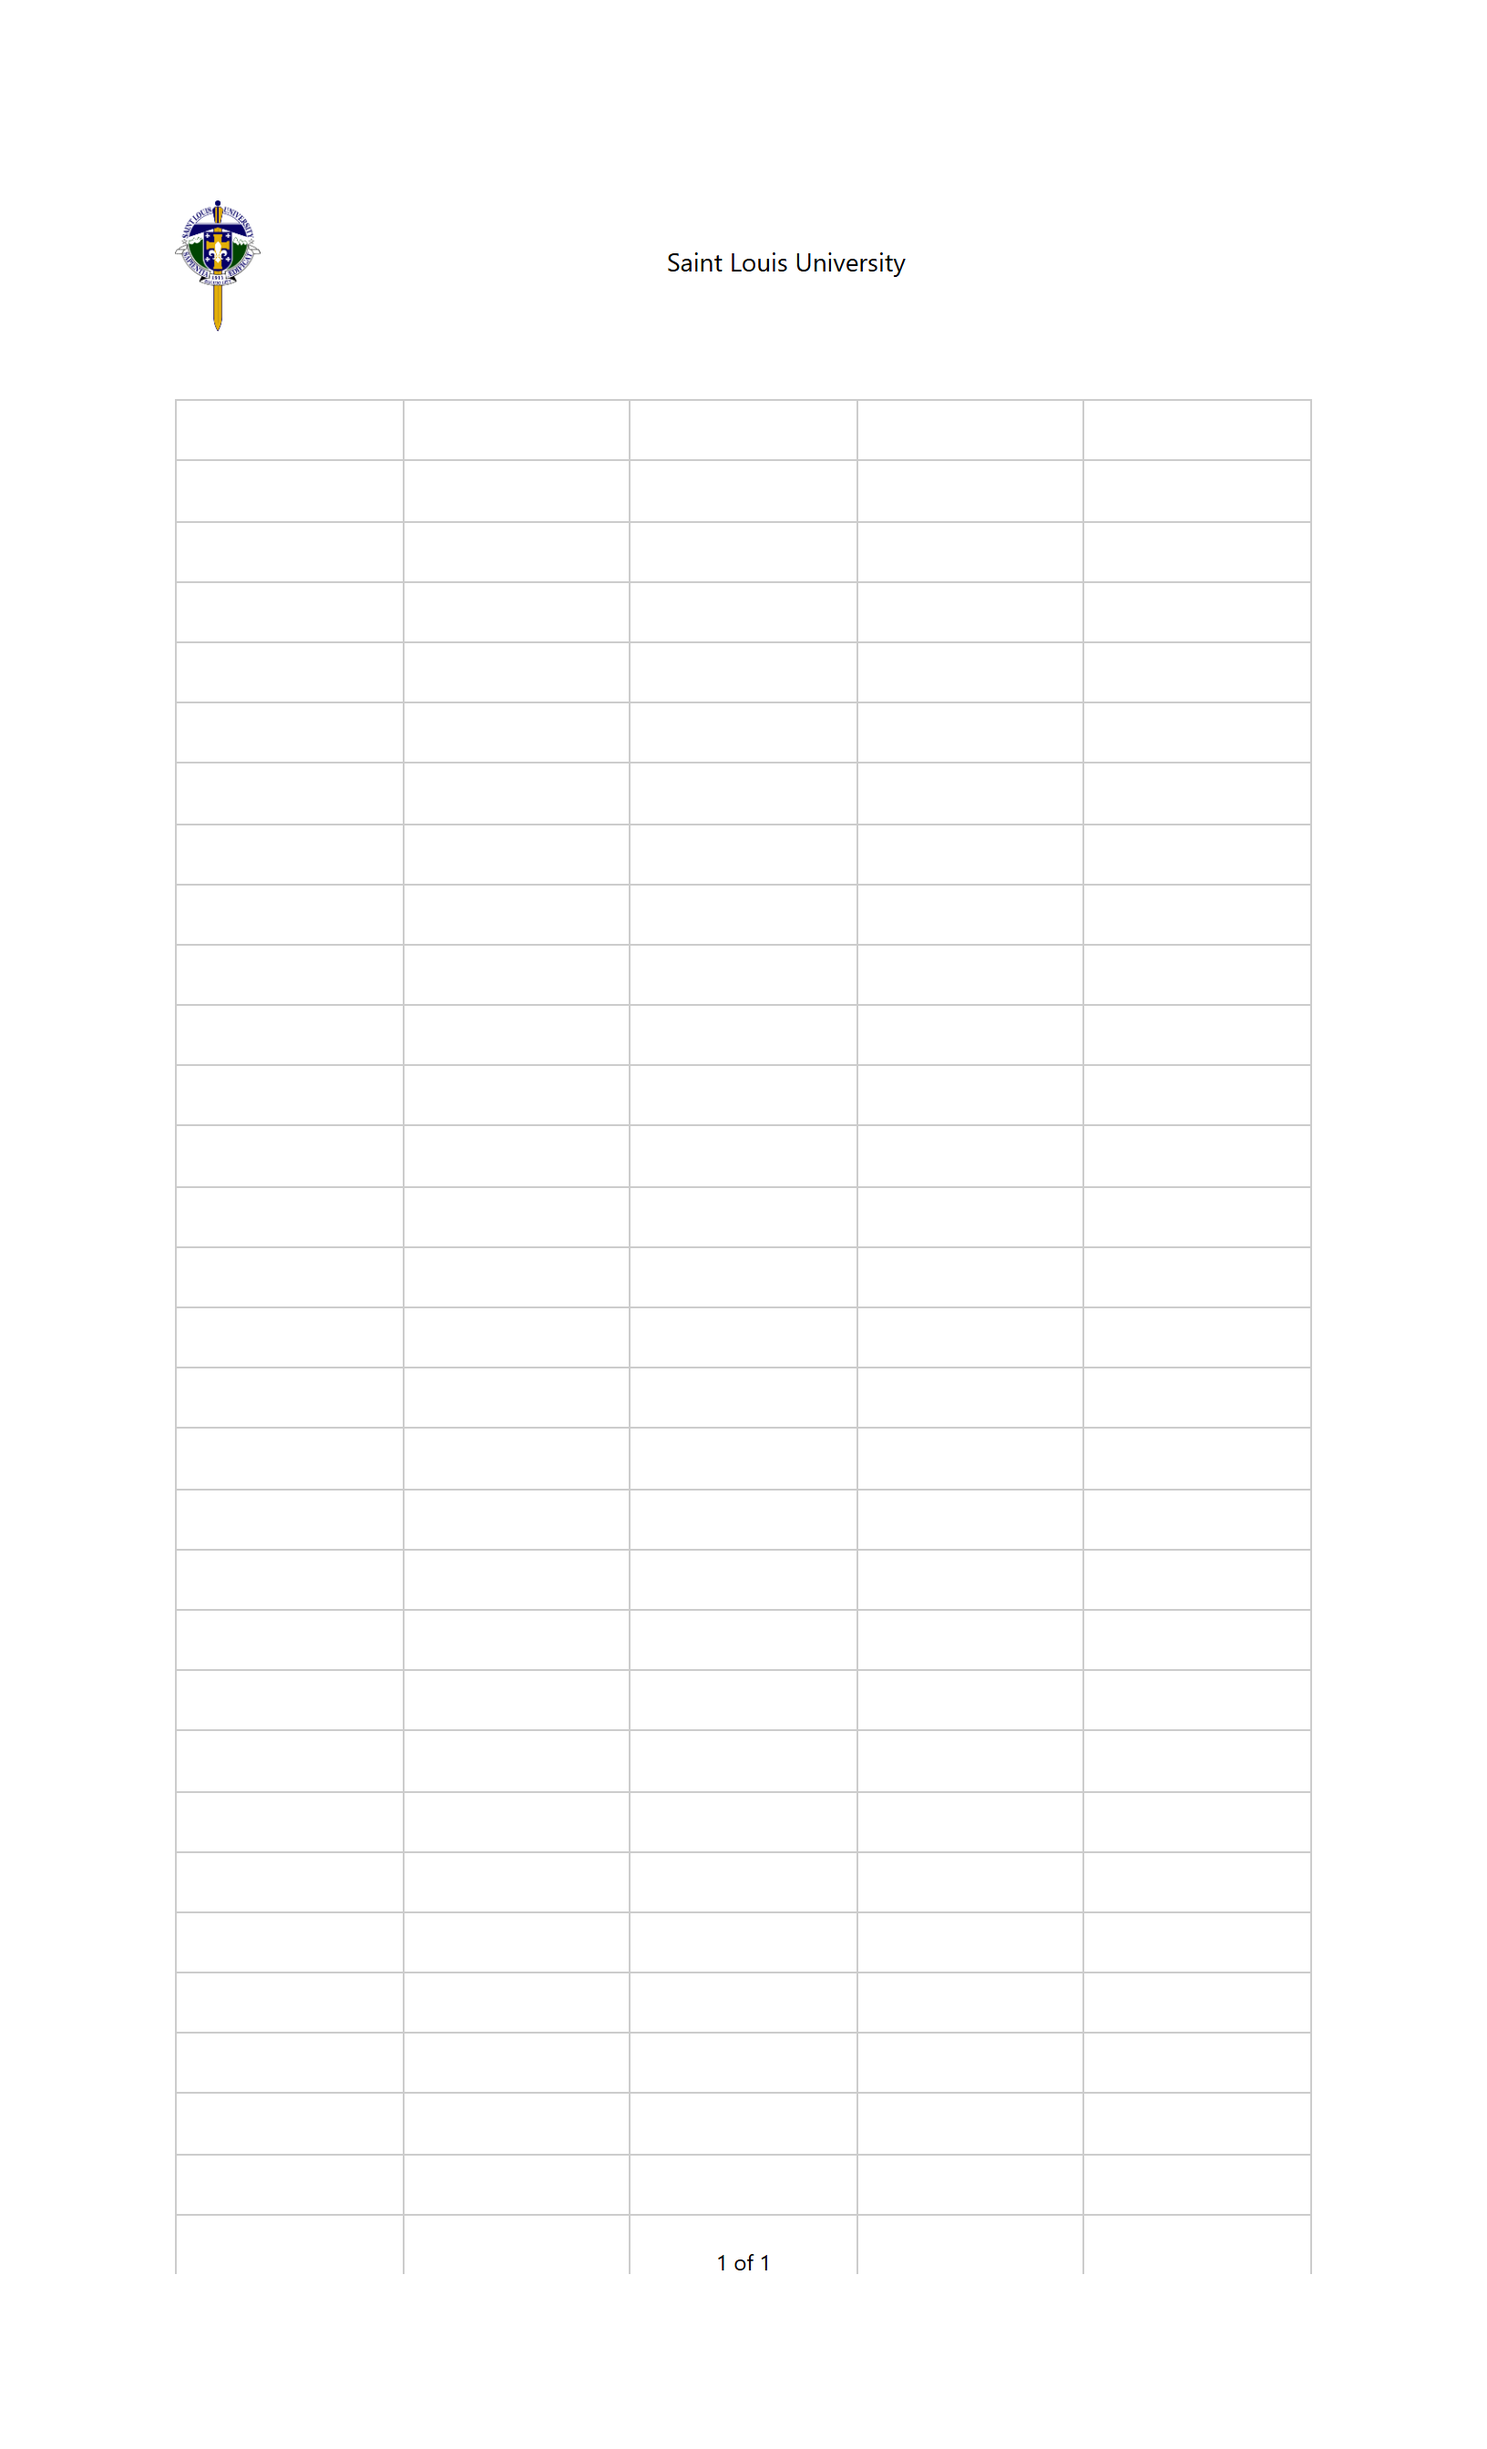
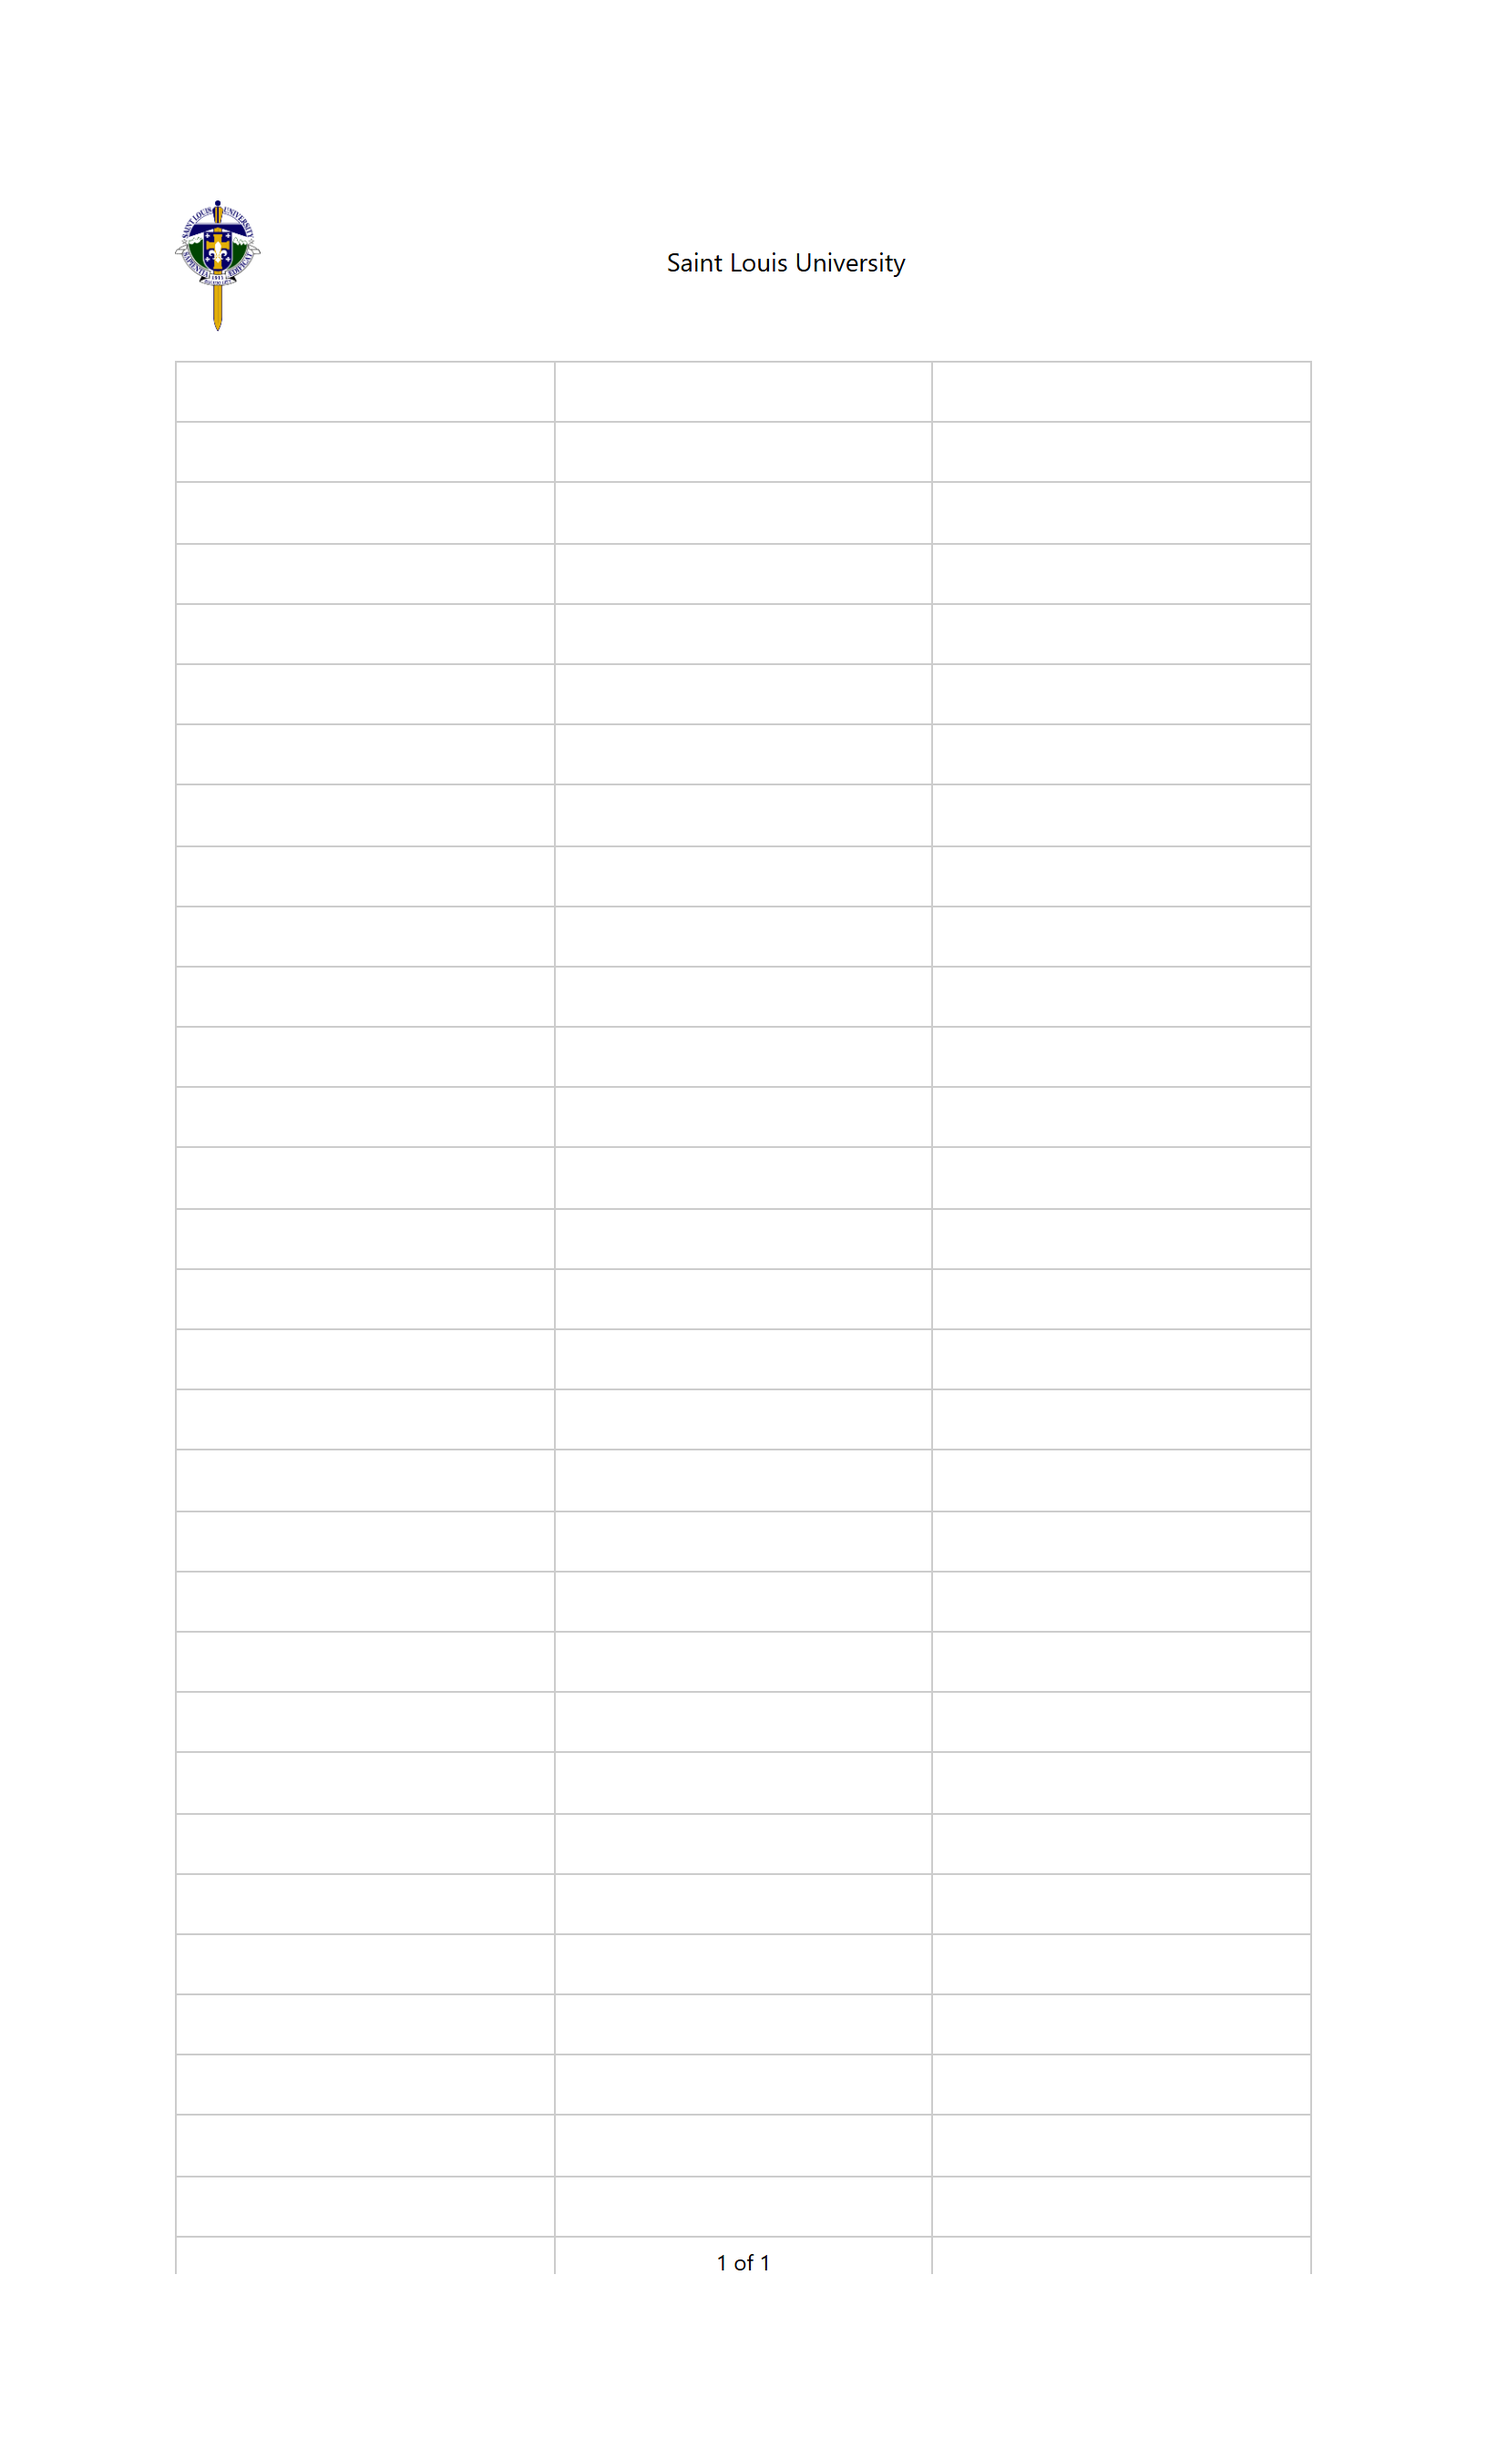
fix: buttons for insertLayout

diff --git a/frontend/src/layout/create_template/textEditor.jsx b/frontend/src/layout/create_template/textEditor.jsx
@@ -13,6 +13,7 @@ import TextAlign from "@tiptap/extension-text-align";
 import { PaginationPlus } from "tiptap-pagination-plus";
 import { Extension } from "@tiptap/core";
 import { PaginationTable } from "tiptap-table-plus";
+
 import RichImage from "../../extensions/image/ImageNode";
 import { EditableField, createLockOutsideFieldsPlugin } from "../../extensions/fields";
 import { formatDate } from "../../utils/formatters.jsx";
@@ -47,11 +48,12 @@ const TextStyleAttrs = Extension.create({
 });
 
 /* ----------------------------- TableCell extra attrs ----------------------------- */
-/* Optional: allow cell background via setCellAttribute('backgroundColor', value) */
+// Optional: allow cell background via setCellAttribute('backgroundColor', value)
 const TableCellBg = TableCellPlus.extend({
   addAttributes() {
+    const parent = this.parent?.() || {};
     return {
-      ...this.parent?.(),
+      ...parent,
       backgroundColor: {
         default: null,
         renderHTML: (attrs) =>
@@ -69,7 +71,14 @@ const px = (n) => `${Math.max(0, Number(n) || 0)}px`;
 // Env-aware API base
 const rawUrls = import.meta.env.VITE_API_URL || "http://localhost:8000";
 const API_URLS = rawUrls.split(",");
-const API_URL = API_URLS.find((url) => url.includes(window.location.hostname)) || API_URLS[0];
+const API_URL =
+  API_URLS.find((url) => {
+    try {
+      return url.includes(window.location.hostname);
+    } catch {
+      return false;
+    }
+  }) || API_URLS[0];
 
 const resolveAssetUrl = (val) => {
   const v = String(val ?? "").trim();
@@ -297,8 +306,10 @@ export default function TextEditor({
         resizeHandleStyle: { width: "4px", opacity: 0.7 },
       }),
       TableRowPlus,
-      TableCellBg,    
+      TableCellBg,
       TableHeaderPlus,
+
+      // ---- Pagination must come after the table nodes ----
       PaginationPlus.configure({
         pageGap: 2,
         pageGapBorderSize: 1,
@@ -314,7 +325,6 @@ export default function TextEditor({
       },
     },
     onCreate: ({ editor }) => {
-      // Install lock policy plugin once; keep a setter to flip at runtime
       const { plugin, setPolicy } = createLockOutsideFieldsPlugin({
         initialPolicy: mode === "document" ? "document" : "template",
         nodeTypeName: "editableField",
@@ -323,7 +333,6 @@ export default function TextEditor({
       setPolicyRef.current = setPolicy;
       editor.registerPlugin(plugin);
 
-      // Respect readOnly flag
       editor.setEditable(!readOnly);
 
       onEditorReady?.(editor);
@@ -343,13 +352,11 @@ export default function TextEditor({
     } catch {}
   }, [editor, readOnly]);
 
-  // Flip edit policy depending on mode
   useEffect(() => {
     if (!setPolicyRef.current) return;
     setPolicyRef.current(mode === "document" ? "document" : "template");
   }, [mode]);
 
-  // Apply page size/margins
   useEffect(() => {
     if (!editor) return;
     const d = computeDims(pageSetup);
@@ -368,7 +375,6 @@ export default function TextEditor({
     queueMicrotask(() => requestAnimationFrame(applyHeaderFooterBands));
   }, [editor, pageSetup]);
 
-  // Safe external content set (avoid matchesNode null by briefly disabling policy)
   useEffect(() => {
     if (!editor) return;
     const setWithPolicy = (val) => {
@@ -421,8 +427,12 @@ export default function TextEditor({
     bandEl.style.background = "white";
 
     let left =
-      bandEl.querySelector(isFooter ? ":scope > .rm-page-footer-left" : ":scope > .rm-page-header-left") ||
-      bandEl.querySelector(isFooter ? ":scope > .rm-first-page-footer-left" : ":scope > .rm-first-page-header-left") ||
+      bandEl.querySelector(
+        isFooter ? ":scope > .rm-page-footer-left" : ":scope > .rm-page-header-left"
+      ) ||
+      bandEl.querySelector(
+        isFooter ? ":scope > .rm-first-page-footer-left" : ":scope > .rm-first-page-header-left"
+      ) ||
       bandEl.querySelector(":scope > .nv-band-left");
 
     if (!left) {
@@ -432,8 +442,12 @@ export default function TextEditor({
     }
 
     let right =
-      bandEl.querySelector(isFooter ? ":scope > .rm-page-footer-right" : ":scope > .rm-page-header-right") ||
-      bandEl.querySelector(isFooter ? ":scope > .rm-first-page-footer-right" : ":scope > .rm-first-page-header-right") ||
+      bandEl.querySelector(
+        isFooter ? ":scope > .rm-page-footer-right" : ":scope > .rm-page-header-right"
+      ) ||
+      bandEl.querySelector(
+        isFooter ? ":scope > .rm-first-page-footer-right" : ":scope > .rm-first-page-header-right"
+      ) ||
       bandEl.querySelector(":scope > .nv-band-right");
 
     if (!right) {
@@ -534,7 +548,6 @@ export default function TextEditor({
 
     const hasDocCode = String(cfg.stamp.docCode || "").trim().length > 0;
     if (hasDocCode) {
-      // bordered card
       const card = document.createElement("div");
       card.style.border = "1px solid #000";
       card.style.fontSize = "11px";
@@ -560,7 +573,6 @@ export default function TextEditor({
         return r;
       };
 
-      // first row manually without duplicate top border
       const first = document.createElement("div");
       first.style.display = "flex";
       const fl = document.createElement("div");
@@ -670,8 +682,7 @@ export default function TextEditor({
     if (
       cfg.footer.body.enabled &&
       cfg.footer.body.text &&
-      (!cfg.footer.pageNumber.enabled ||
-        cfg.footer.body.align !== cfg.footer.pageNumber.align)
+      (!cfg.footer.pageNumber.enabled || cfg.footer.body.align !== cfg.footer.pageNumber.align)
     ) {
       const b = cfg.footer.body;
       const host = blockFor(b.align);
